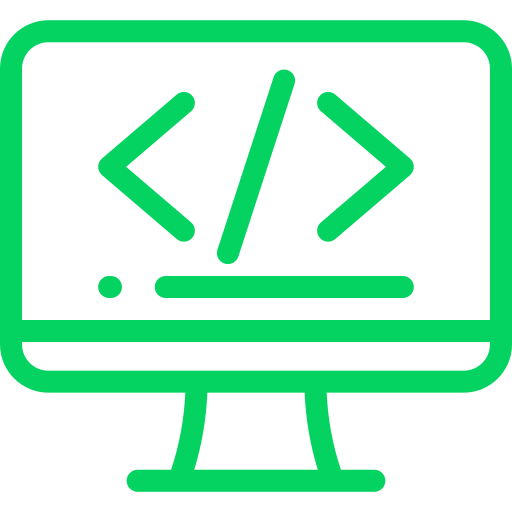
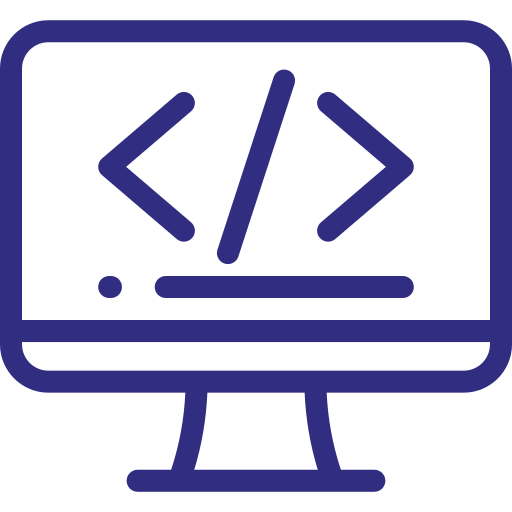
modified color and fieldset

diff --git a/src/components/fields.tsx b/src/components/fields.tsx
@@ -9,13 +9,17 @@ interface FieldProps{
 export function Field(props: FieldProps) {
     return (
         <fieldset className="flex flex-row items-center justify-center border-2 border-field rounded-2xl w-5/6 gap-x-3 bg-[#171717]">
-            <img src={props.img} alt="" className="w-96 h-60 rounded-2xl"/>
-            <div className="flex flex-col items-center justify-center">
+            <div className="flex flex-col items-start justify-start w-full">
+                <img src={props.img} alt="" className="w-96 h-60 rounded-2xl"/>
+            </div>
+            <div className="flex flex-col items-center justify-center w-full h-full gap-3 mr-1">
+                <div className="flex flex-col items-center justify-center w-full h-full gap-3">
                 <h1 className="text-white text-4xl font-apple">{props.title}</h1>
                 <p className="text-white text-2xl">
                 {props.text}
             </p>
             <a href={props.link} className='text-white underline decoration-2' target="_blank">{props.nameLink}</a>
+            </div>
             </div>
         </fieldset>
     )
